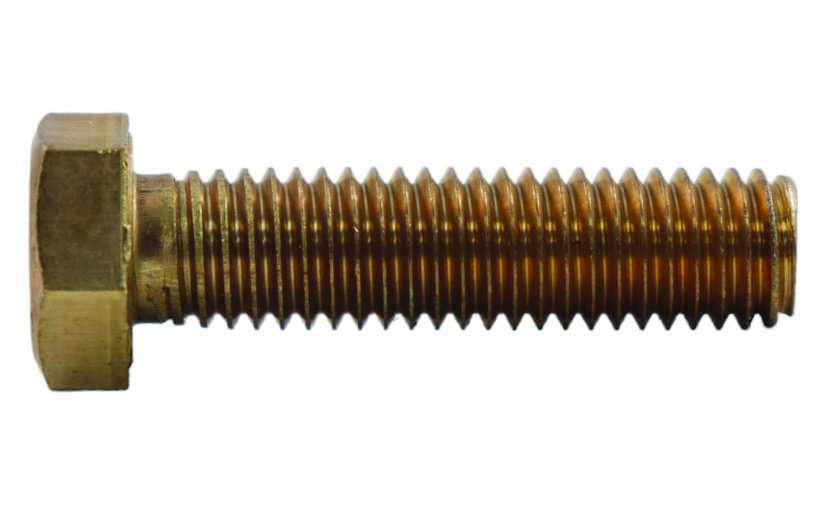
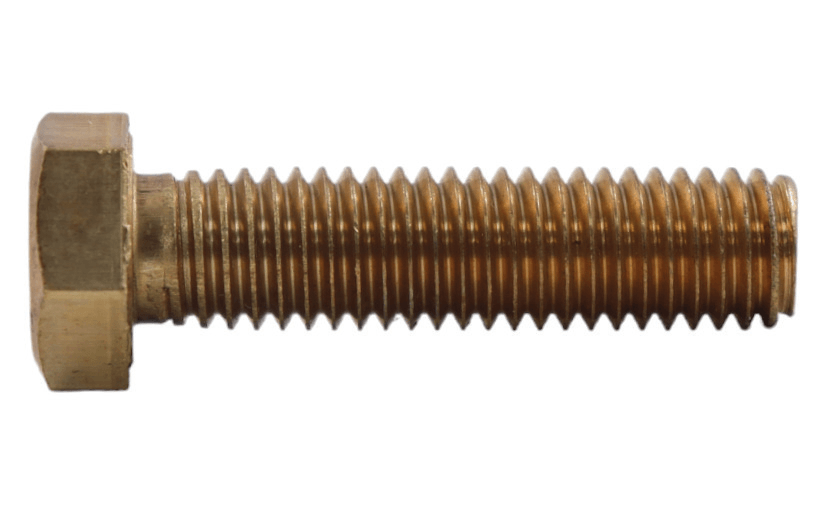
Speed up the first load without caching the HTML shell.
Compress the heavy photos, serve them as AVIF or WebP, and stop the contact lookup from holding the page when Supabase is slow.

Changed region(s): [[0.0307, 0.3543, 0.9816, 0.7677], [0.5215, 0.502, 0.9816, 0.5906], [0.1227, 0.3248, 0.1534, 0.3543]]

diff --git a/lib/site-config.ts b/lib/site-config.ts
@@ -1,4 +1,5 @@
 import { unstable_cache } from 'next/cache';
+import { cache } from 'react';
 import { getSupabaseFormsClient, getSupabaseServer } from '@/lib/supabase/server';
 import {
   getDefaultSiteContact,
@@ -12,8 +13,8 @@ export { getDefaultSiteContact, parsePhoneList } from '@/lib/site-contact-defaul
 
 type SiteConfigRow = Pick<Tables<'site_config'>, 'key' | 'value' | 'value_json'>;
 
-/** Avoid hanging the whole HTML shell when Supabase is slow/unreachable. */
-const SITE_CONFIG_FETCH_TIMEOUT_MS = 4_000;
+/** Avoid hanging the first paint when Supabase is slow. Defaults in constants/site.ts cover the gap. */
+const SITE_CONFIG_FETCH_TIMEOUT_MS = 1_200;
 
 const CONTACT_KEYS = [
   'whatsapp_number',
@@ -113,9 +114,14 @@ export async function getSiteContactConfig(): Promise<SiteContactConfig> {
   return mergeRows(rows);
 }
 
-/** Cached ~60s — edits in Supabase appear without redeploy; page shell stays dynamic. */
-export const getCachedSiteContactConfig = unstable_cache(
+const getCachedSiteContact = unstable_cache(
   async () => getSiteContactConfig(),
   ['site-contact-config'],
   { revalidate: 60 }
 );
+
+/**
+ * One read per request (layout + page) and ~60s across requests.
+ * The HTML shell stays dynamic so Netlify does not cache an empty 304.
+ */
+export const getCachedSiteContactConfig = cache(getCachedSiteContact);

diff --git a/components/sections/sectors-section.tsx b/components/sections/sectors-section.tsx
@@ -41,7 +41,8 @@ function SectorFlipCard({
               src={sector.image}
               alt=""
               fill
-              sizes="(max-width: 640px) 50vw, (max-width: 1024px) 33vw, 20vw"
+              quality={68}
+              sizes="(max-width: 640px) 50vw, (max-width: 1024px) 33vw, 240px"
               className="object-cover transition-transform duration-500 ease-out group-hover:scale-110 motion-reduce:transition-none motion-reduce:group-hover:scale-100"
             />
             <div className="absolute inset-0 bg-gradient-to-t from-black/75 via-black/25 to-transparent transition-colors duration-300 group-hover:from-black/55 group-hover:via-black/10" />

diff --git a/components/sections/partners-section.tsx b/components/sections/partners-section.tsx
@@ -64,7 +64,8 @@ export function PartnersSection() {
                   src={PARTNERS_CONTENT.partnerLogo}
                   alt={PARTNERS_CONTENT.partnerName}
                   fill
-                  sizes="(max-width: 1024px) 100vw, 50vw"
+                  quality={70}
+                  sizes="(max-width: 1024px) 100vw, 640px"
                   className="object-cover transition-transform duration-700 group-hover:scale-[1.03]"
                 />
                 <div className="absolute inset-0 bg-gradient-to-t from-[#052042] via-[#052042]/40 to-transparent" />

diff --git a/next.config.js b/next.config.js
@@ -16,6 +16,9 @@ const nextConfig = {
     '/api/catalogs/download': ['./private-catalogs/**/*.pdf'],
   },
   images: {
+    formats: ['image/avif', 'image/webp'],
+    qualities: [68, 70, 75],
+    minimumCacheTTL: 60 * 60 * 24 * 7,
     remotePatterns: [
       {
         protocol: 'https',
@@ -87,6 +90,10 @@ const nextConfig = {
       },
     ];
   },
+};
+
+nextConfig.experimental = {
+  optimizePackageImports: ['lucide-react', 'framer-motion'],
 };
 
 module.exports = nextConfig;

diff --git a/components/sections/about-section.tsx b/components/sections/about-section.tsx
@@ -128,6 +128,7 @@ export function AboutSection() {
             src={ASSETS.about}
             alt="Fachada de la tienda física de CCS Tornitech con su logo y eslogan Fijamos Soluciones"
             fill
+            quality={70}
             sizes="(max-width: 880px) 100vw, 880px"
             className="object-cover object-center"
           />

diff --git a/components/sections/products-section.tsx b/components/sections/products-section.tsx
@@ -76,6 +76,7 @@ export function ProductsSection() {
                         alt={product.name}
                         src={imageSrc}
                         fill
+                        quality={70}
                         sizes="(max-width: 640px) 45vw, (max-width: 1024px) 45vw, 280px"
                       />
                     </div>

diff --git a/components/sections/hero-section.tsx b/components/sections/hero-section.tsx
@@ -21,7 +21,8 @@ export function HeroSection() {
           alt="Almacén de tornillería y componentes de fijación industrial"
           fill
           priority
-          sizes="(max-width: 1800px) 100vw, 1800px"
+          quality={70}
+          sizes="100vw"
           className="object-cover object-[center_42%]"
         />
 

diff --git a/components/catalogs/catalog-list.tsx b/components/catalogs/catalog-list.tsx
@@ -41,6 +41,7 @@ export function CatalogList({ catalogs, onDownload, firstDownloadRef }: CatalogL
                 alt={img.alt}
                 src={img.src}
                 fill
+                quality={70}
                 sizes="104px"
               />
             </div>

diff --git a/CHANGELOG.md b/CHANGELOG.md
@@ -1,3 +1,11 @@
+## 2026-09-28 — Carga más rápida
+
+### Rendimiento
+- Imágenes pesadas recomprimidas sin cambiar rutas ni el aspecto de la marca.
+- La ficha de contacto no bloquea la página más de 1,2 s y se lee una sola vez por visita.
+- Fotos de portada, sectores y productos salen en AVIF/WebP con caché de una semana.
+- El HTML sigue sin cachearse en Netlify para no repetir la página en blanco.
+
 ## 2026-09-27 — Limpieza del catálogo antiguo y páginas de error
 
 ### Código
